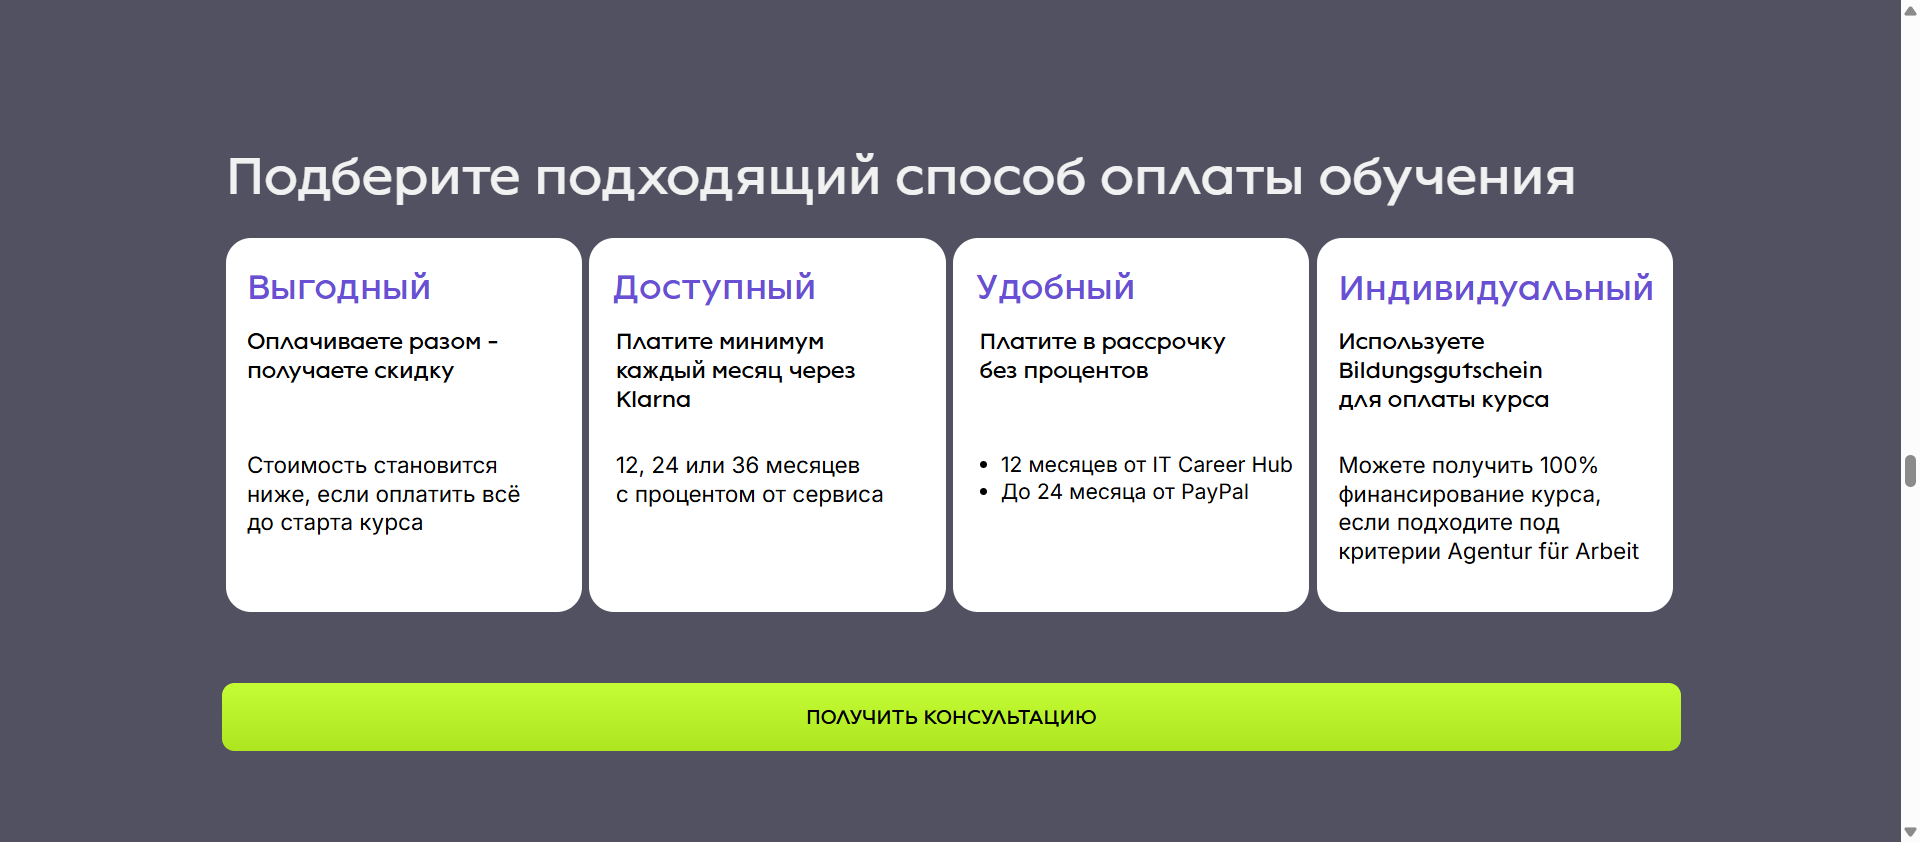
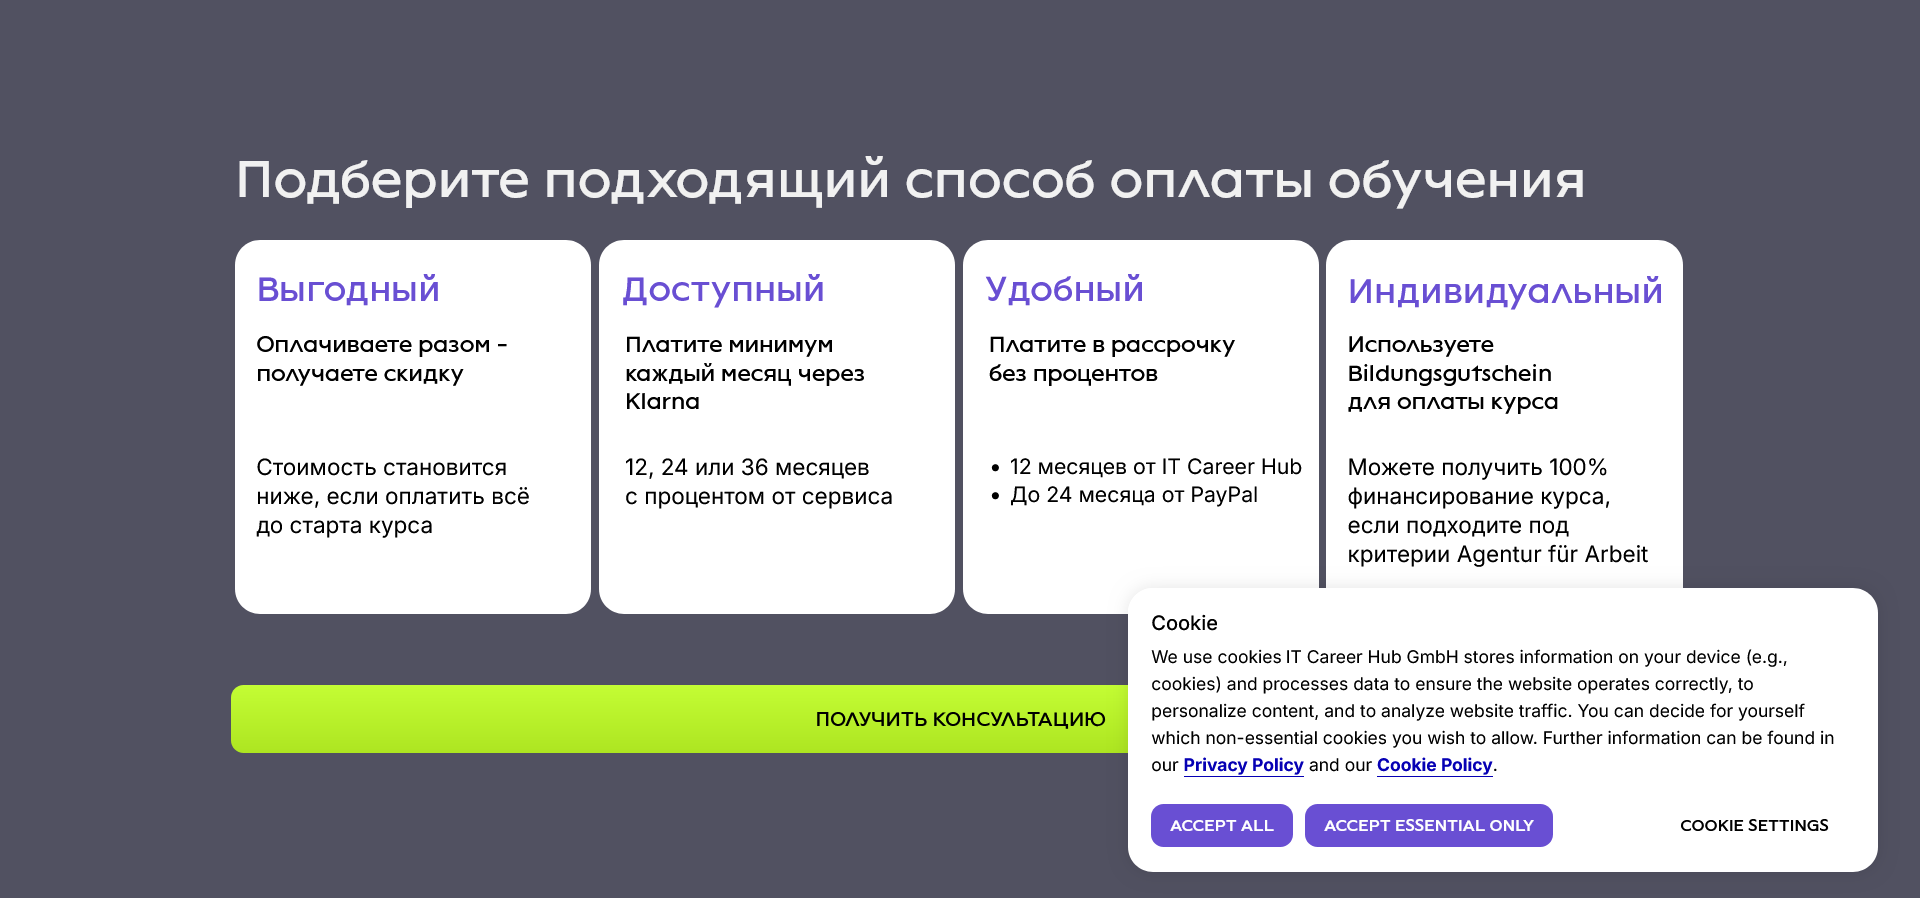
HW_#2_v2

diff --git a/Lesson2/HW_#2/test_open_ich.py b/Lesson2/HW_#2/test_open_ich.py
@@ -1,31 +1,27 @@
-from selenium import webdriver
-# from selenium.webdriver.chrome.service import Service
-# from selenium.webdriver.chrome.options import Options
-from selenium.webdriver.common.by import By
-from time import sleep
 import pytest
-# import os
+from time import sleep
+from selenium import webdriver
+from selenium.webdriver.common.by import By
+from selenium.webdriver.firefox.service import Service as FirefoxService
+from webdriver_manager.firefox import GeckoDriverManager
+
 
 # Написать скрипт, который:
 #
 #     Открывает в браузере Firefox https://itcareerhub.de/ru
-#     Переходит в раздел “Способы оплаты”
+#     Переходит в раздел "Способы оплаты"
 #     Делает скриншот этой секции страницы
 #
 # В качестве ответа на задание необходимо приложить ссылку на git репозиторий.
 
 @pytest.fixture
 def driver():
-    # service = Service("/Users/romansurkov/Documents/chromedriver-mac-arm64/chromedriver")
-    # options = Options()
-    # driver = webdriver.Chrome(service=service, options=options)
-    driver = webdriver.Chrome()
+    service = FirefoxService(GeckoDriverManager().install())
+    driver = webdriver.Firefox(service=service)
     driver.maximize_window()
-    # driver.set_window_size(640, 460)
-    # driver = webdriver.Chrome(service=service)
-    # driver = webdriver.Chrome(options=options)
     yield driver
     driver.quit()
+
 
 def test_about_page(driver):
     driver.get("https://itcareerhub.de/ru")
@@ -34,18 +30,5 @@ def test_about_page(driver):
     about_link.click()
     sleep(3)
     # about_link.screenshot("ich_page.png") # Make screen HTML-elemnet, but not a page
-    driver.save_screenshot("ICH_Page.png") # ok
+    driver.save_screenshot("ICH_Page.png")  # ok
     sleep(3)
-
-# def test_berlin(driver):
-#     driver.get("https://itcareerhub.de/ru")
-#     driver.refresh()
-#     driver.get("https://www.berlin.de")
-#     driver.save_screenshot("./berlin_s.png")
-#     sleep(2)
-#     driver.refresh()
-#     driver.back()
-#     sleep(2)
-#     driver.forward()
-#     driver.refresh()
-#     sleep(2)
